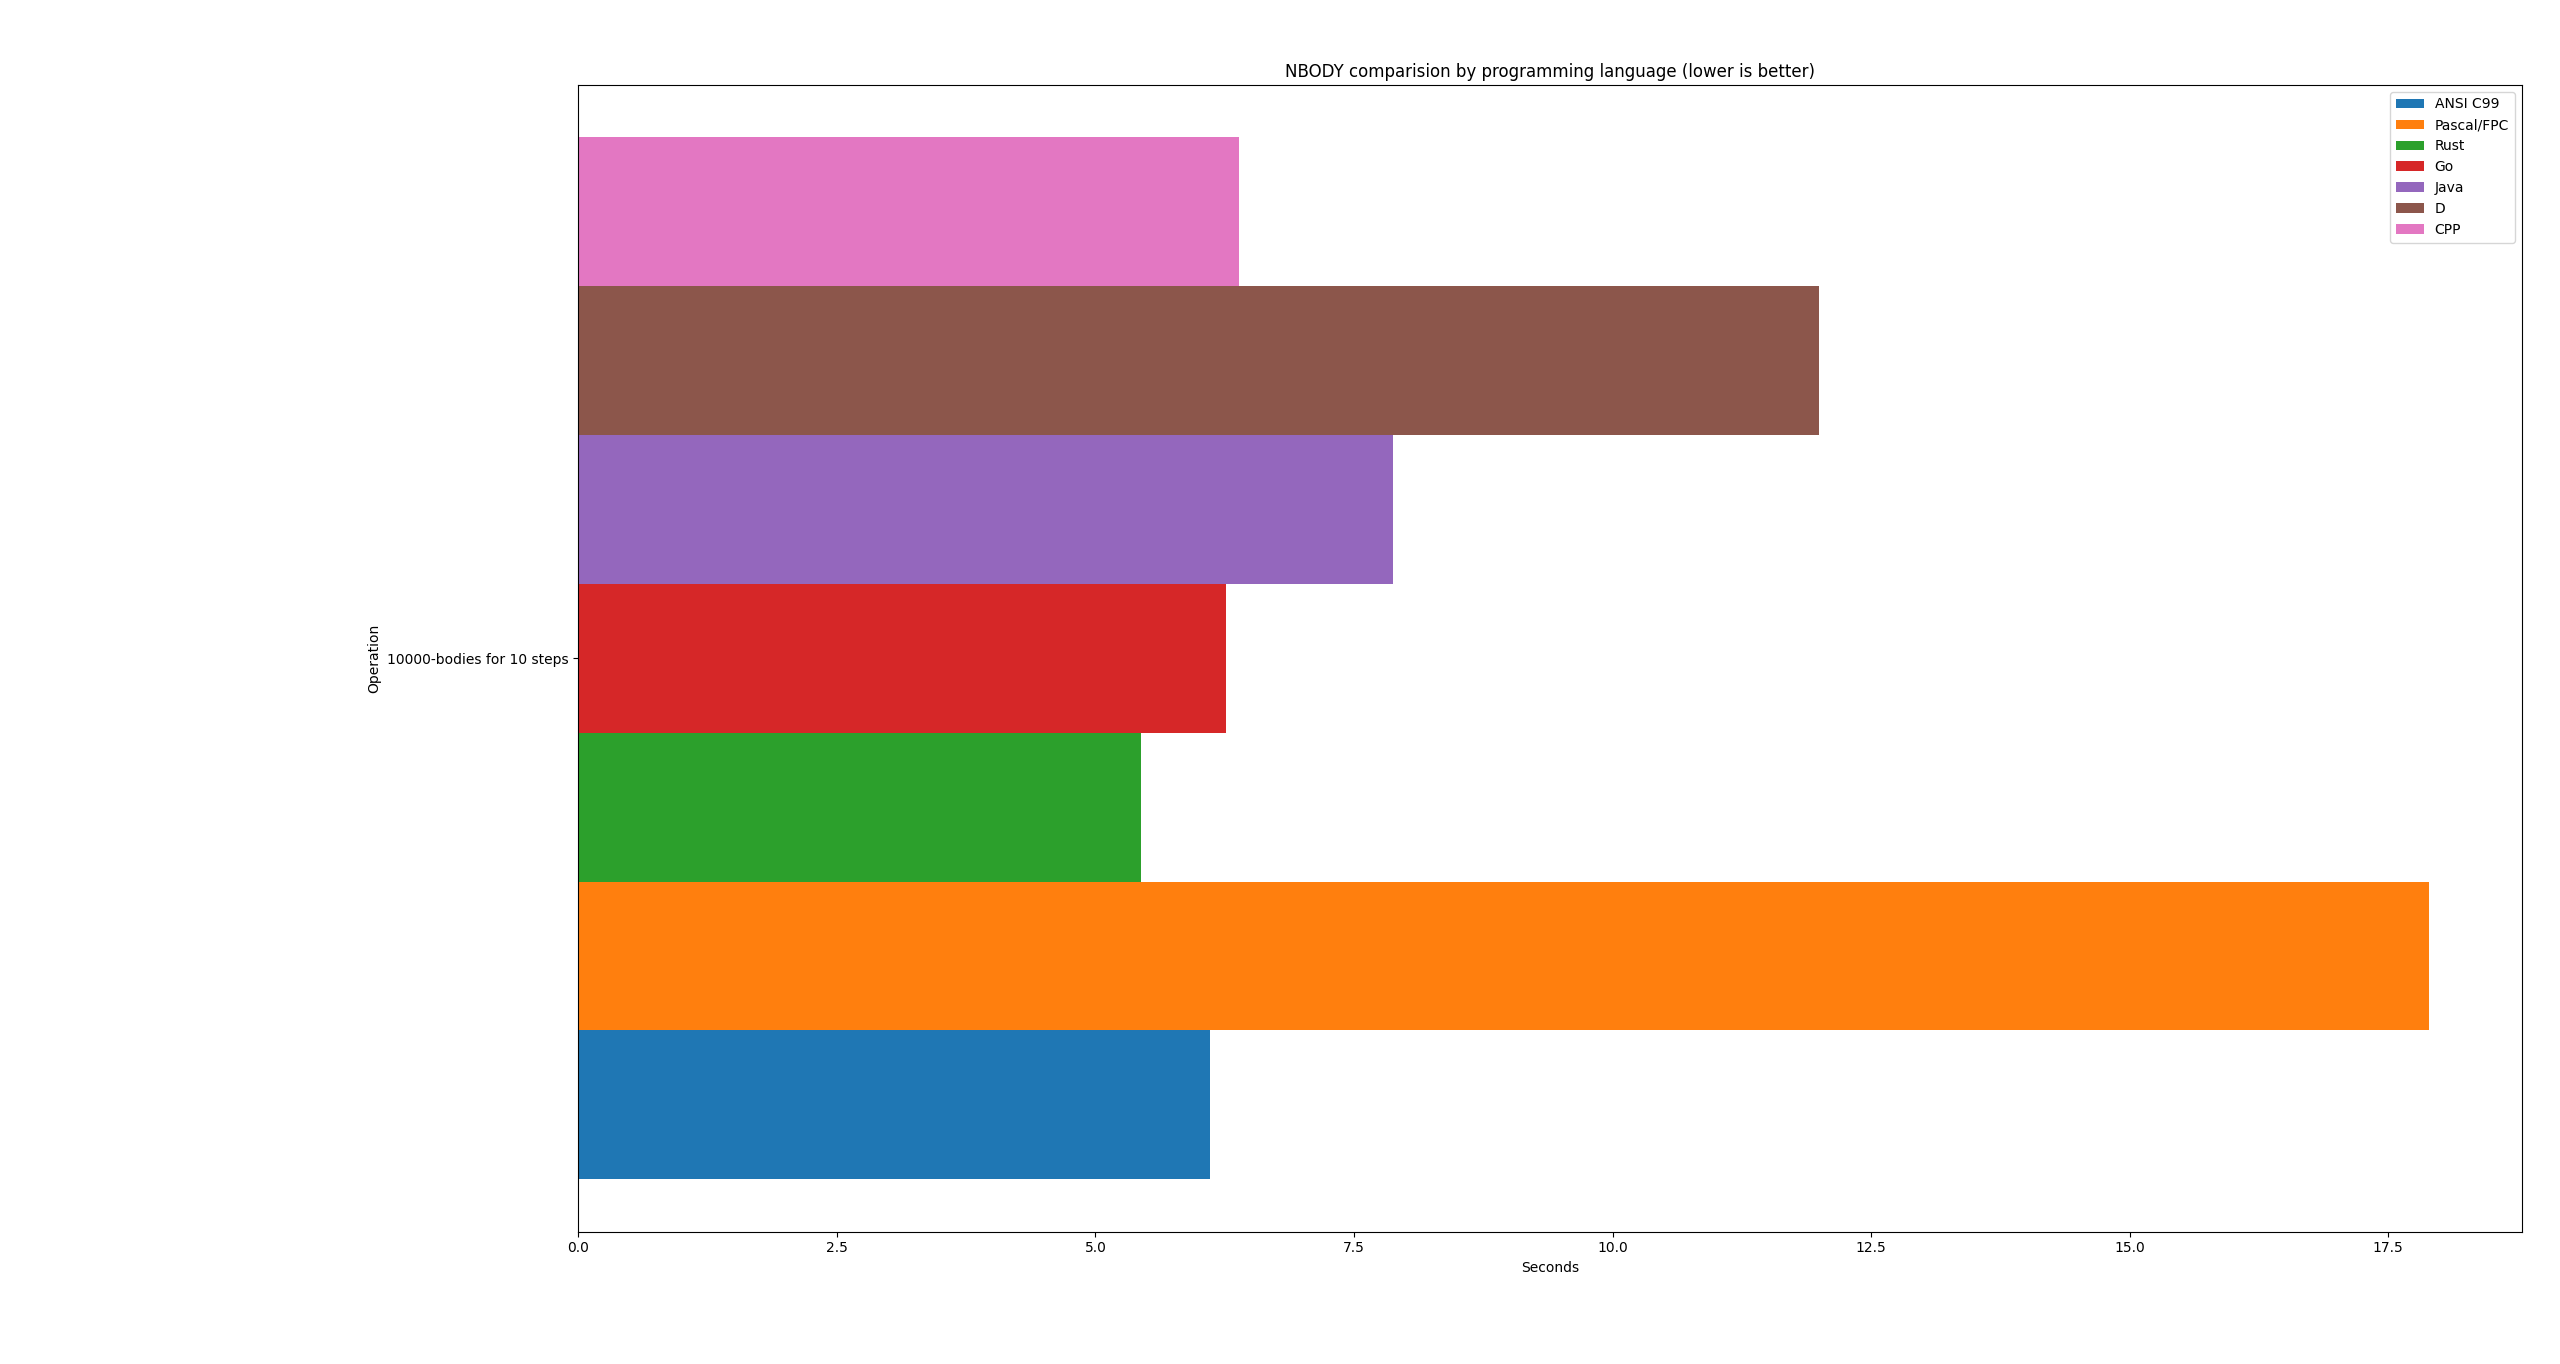
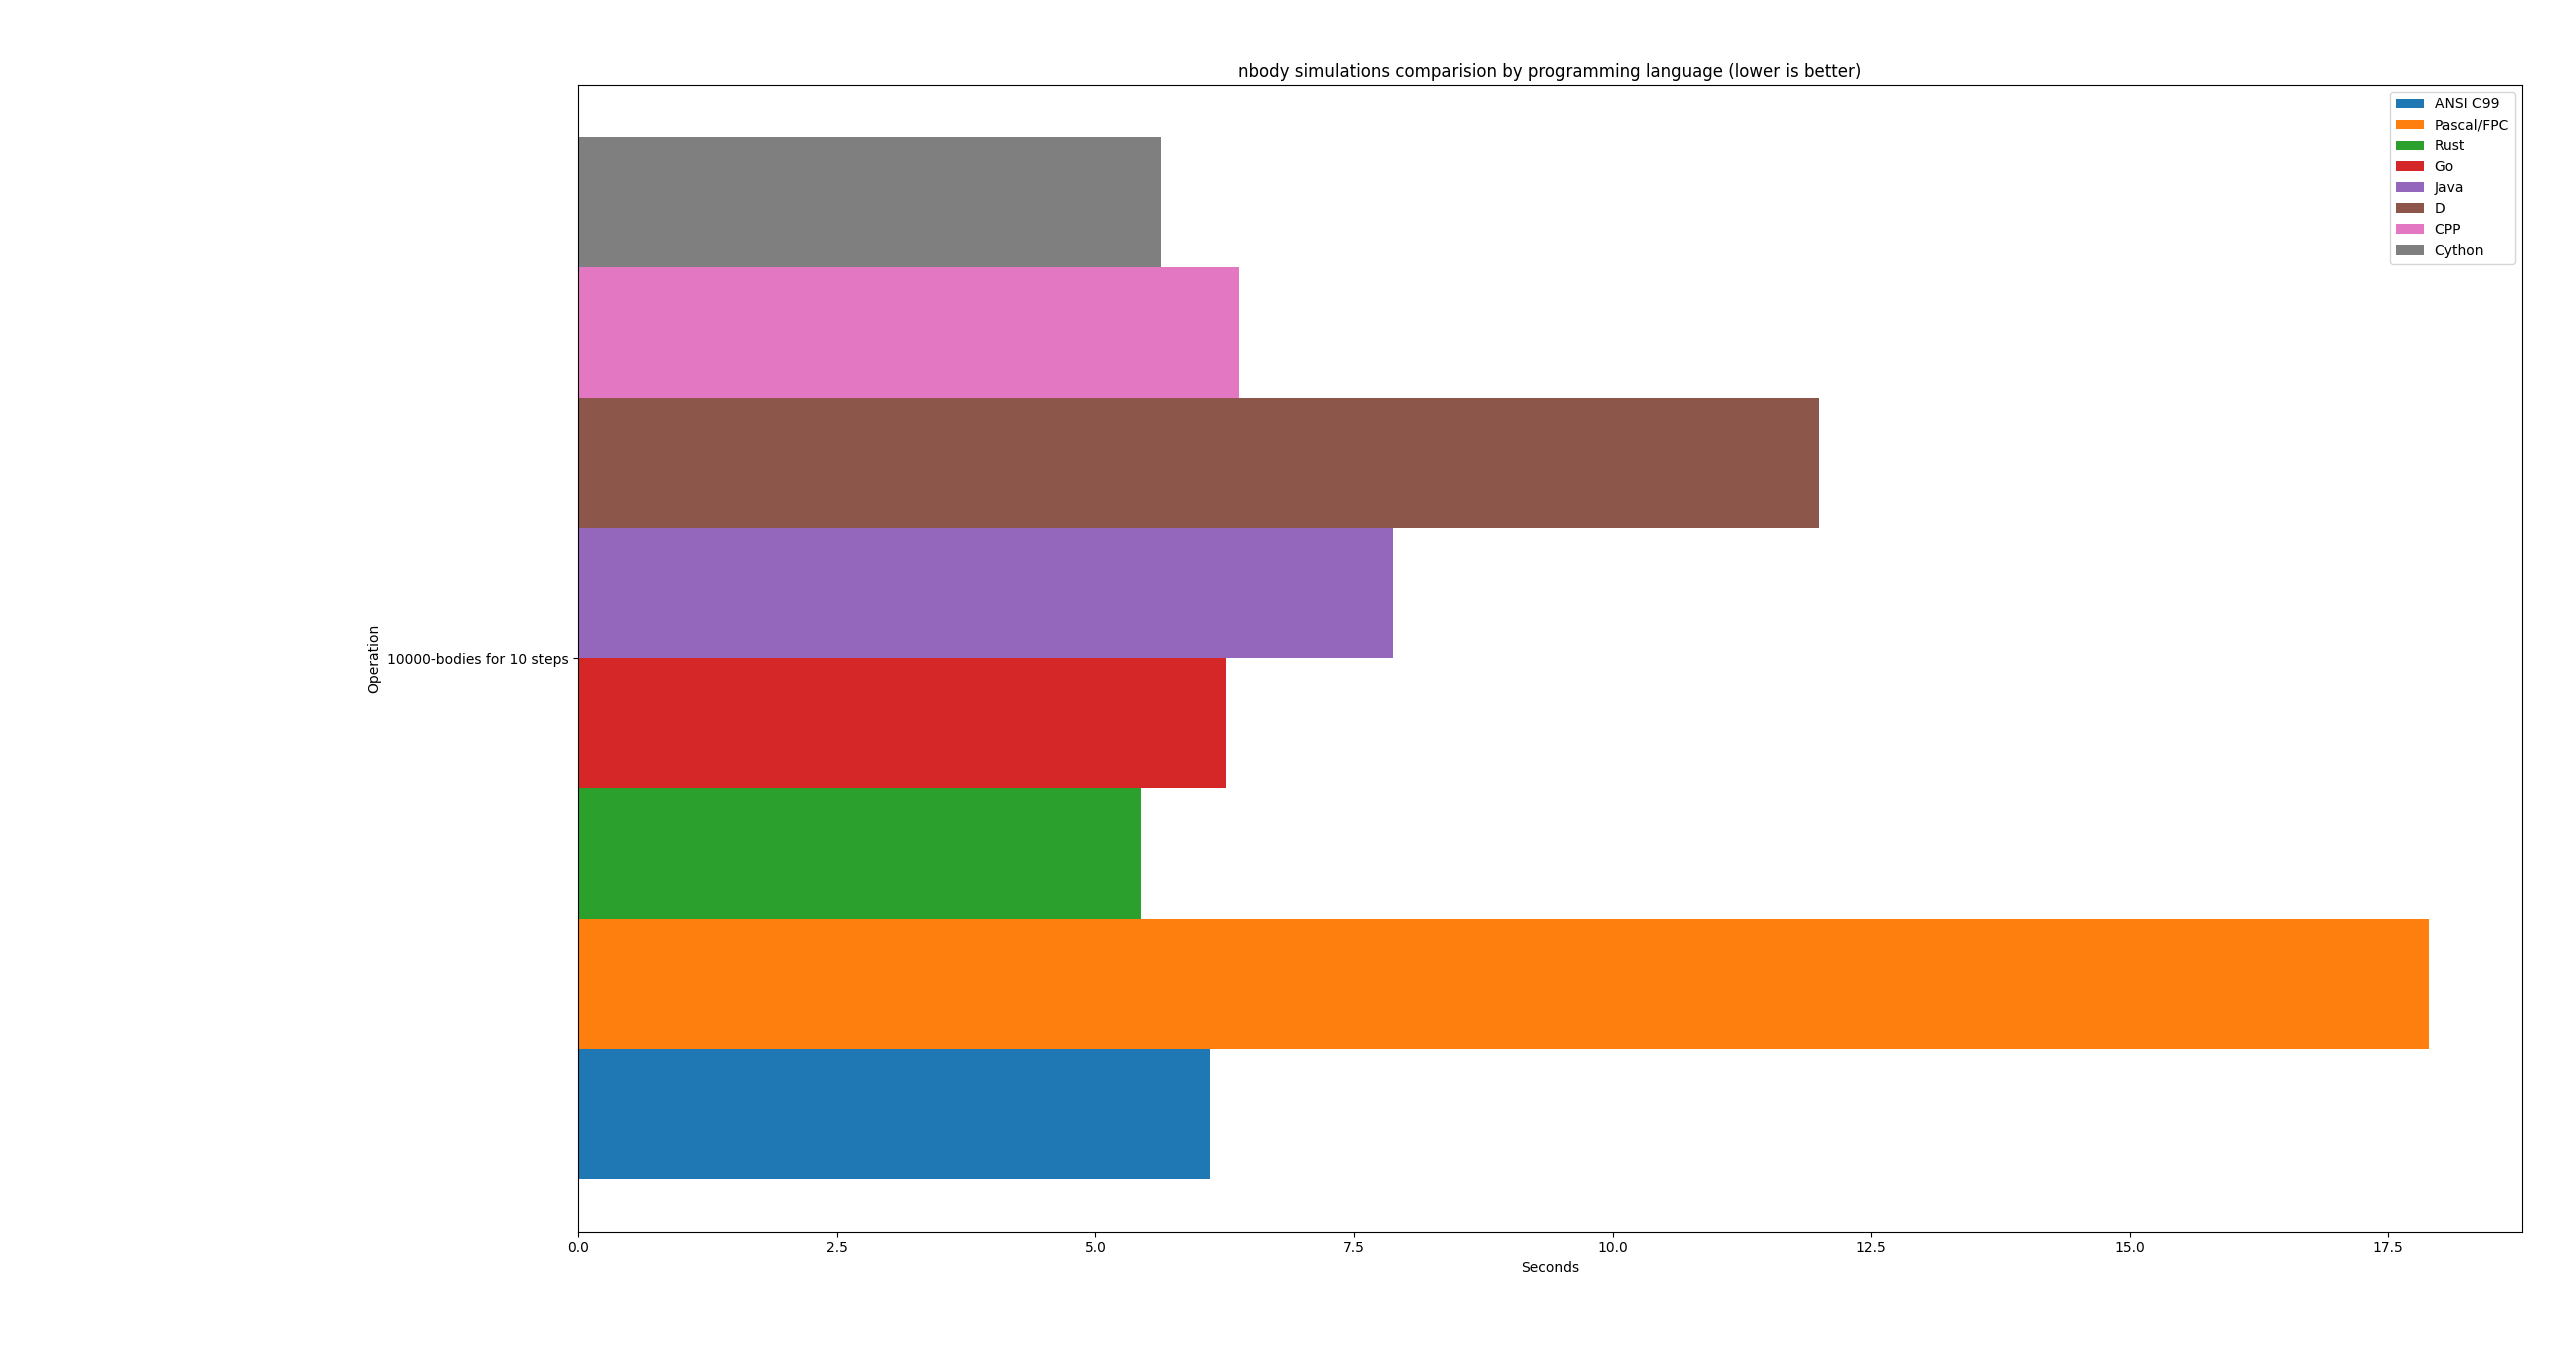
add to nbody sim. Cython impl. and update bargraph with results

diff --git a/nbody/cython/setup.py b/nbody/cython/setup.py
@@ -1,0 +1,7 @@
+from setuptools import setup
+from Cython.Build import cythonize
+
+setup(
+    ext_modules=cythonize("nbody_perf.pyx", compiler_directives={"language_level": "3"})
+)
+

diff --git a/nbody/README.md b/nbody/README.md
@@ -107,6 +107,12 @@ real	0m6,396s
 user	0m6,384s
 sys	0m0,012s
 
+(.venv) $ cd cython/
+(.venv) $ python3 setup.py build_ext --inplace
+(.venv) $ python3 -c "import nbody_perf; nbody_perf.run_simulation()"
+Technology: Cython
+10000-bodies for 10 steps: 5.634083 seconds
+
 
 ```
 
